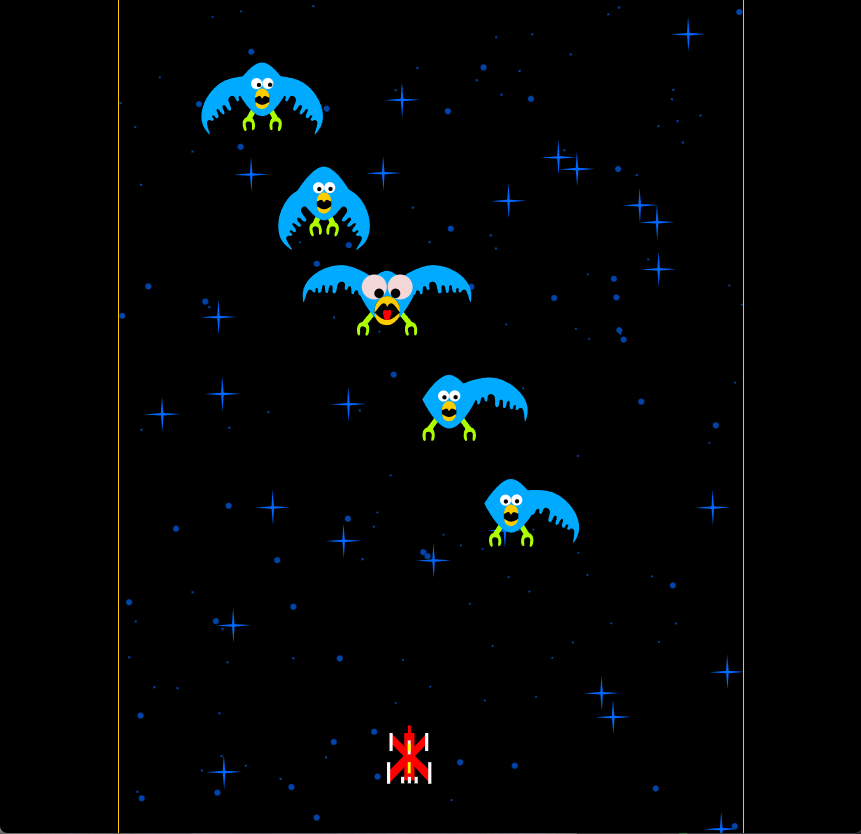
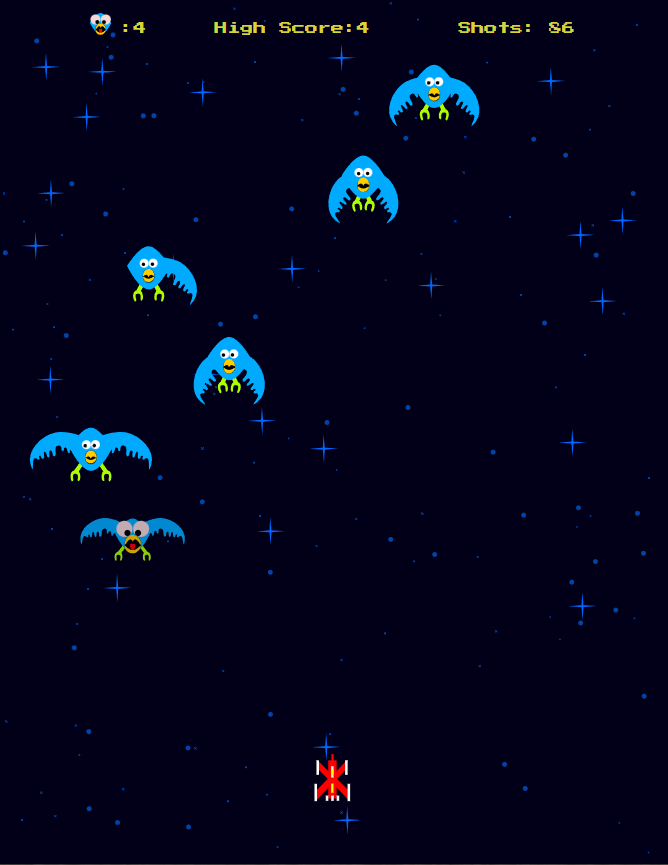
Got a high score system implemented

diff --git a/src/components/Canvas.jsx b/src/components/Canvas.jsx
@@ -7,6 +7,7 @@ import Ship from './Ship';
 import ShipBullet from './ShipBullet';
 import Bird from './Bird';
 import CurrentScore from './CurrentScore';
+import HighScore from './HighScore';
 import ShotsRemaining from './ShotsRemaining';
 import Title from './Title';
 import StartGame from './StartGame';
@@ -28,7 +29,9 @@ const Canvas = props => {
             
         >   
             <ScrollingBackground />
+            <HighScore highScore={props.gameState.highScore} />
             <CurrentScore score={props.gameState.score} />
+            
             <ShotsRemaining shotsRemaining={props.gameState.shotsRemaining} />
             { props.gameState.shipFire.map(bullet => (
                 <ShipBullet
@@ -77,6 +80,7 @@ Canvas.propTypes = {
         shotsRemaining: PropTypes.number.isRequired,
         startTime: PropTypes.number.isRequired,
         score: PropTypes.number.isRequired,
+        highScore: PropTypes.number.isRequired,
         shipPosition: PropTypes.shape({
             x: PropTypes.number.isRequired,
             y: PropTypes.number.isRequired,

diff --git a/src/reducers/index.js b/src/reducers/index.js
@@ -3,7 +3,7 @@ import moveObjects from './moveObjects';
 import moveShip from './moveShip';
 import shoot from './shoot';
 import startGame from './startGame';
-import { numBirds, birdVertSpacing, startShotCount } from '../utils/constants';
+import { numBirds, birdVertSpacing, startShotCount, HIGH_SCORE_KEY } from '../utils/constants';
 import { calculateCanvas } from '../utils/canvasFunctions';
 
 const canvasSize = calculateCanvas();
@@ -31,11 +31,18 @@ for (let i = 1, j = numBirds; i <= j; i++) {
     birdYPos += canvasSize.y * birdVertSpacing;
 }
 
+//Initialize high score.
+if (localStorage.getItem(HIGH_SCORE_KEY) === null) {
+    localStorage.setItem(HIGH_SCORE_KEY, "0");
+}
+const highScore = Number(localStorage.getItem(HIGH_SCORE_KEY));
+
 const initialGameState = {
     started: false,
     shotsRemaining: startShotCount,
     startTime: 0,
     score: 0,
+    highScore: highScore,
     shipPosition: {
         x: canvasSize.x / 2,
         y: canvasSize.y * .88,

diff --git a/src/reducers/moveObjects.js b/src/reducers/moveObjects.js
@@ -12,6 +12,7 @@ const moveObjects = state => {
     const now = (new Date()).getTime();
 
     let { score } = state.gameState;
+    let { highScore } = state.gameState;
 
     // Handle ship moving
     const { shipMoving } = state.gameState;
@@ -67,6 +68,9 @@ const moveObjects = state => {
                 birdChanges.status = 'struck'; //bird hit!
                 //Add to the score!
                 score += 1;
+
+                //Update state highscore
+                highScore = score;
             }
         }
 
@@ -131,6 +135,7 @@ const moveObjects = state => {
         gameState: {
             ...state.gameState,
             score: score,
+            highScore: highScore,
             shipFire: [...bullets],
             shipMoving: shipMoving,
             shipPosition: shipPosition,

diff --git a/src/reducers/shoot.js b/src/reducers/shoot.js
@@ -1,5 +1,5 @@
 import { scaleCoords } from '../utils/canvasFunctions';
-import { bulletLength, shipBarrelLength, activeShotCount } from '../utils/constants';
+import { bulletLength, shipBarrelLength, activeShotCount, HIGH_SCORE_KEY } from '../utils/constants';
 
 const shoot = state => {
     if (state.gameState.started === false) return state;
@@ -23,6 +23,11 @@ const shoot = state => {
     shotsRemaining -= 1;
     if (shotsRemaining === 0) {
         started = false;
+        const highScore = Number(localStorage.getItem(HIGH_SCORE_KEY));
+        const { score } = state.gameState;
+        if (score > highScore) {
+            localStorage.setItem(HIGH_SCORE_KEY, score.toString());
+        }
     }
 
     return {

diff --git a/src/components/HighScore.jsx b/src/components/HighScore.jsx
@@ -1,0 +1,30 @@
+import React from 'react';
+import PropTypes from 'prop-types';
+import { getCanvas, scaleCoords } from '../utils/canvasFunctions';
+
+const HighScore = (props) => {
+    const canvas = getCanvas();
+    
+    const scoreStyle = {
+        fontFamily: '"Press Start 2P", cursive',
+        fontSize: scaleCoords(4),
+        fill: '#d6d33e',
+    };
+
+    const position = {
+        x: canvas.x * .325,
+        y: canvas.y * .015,
+    };
+    
+    return (
+        <text style={scoreStyle} x={position.x} y={canvas.y * .04}>
+            High Score:{props.highScore}
+        </text>
+    );
+};
+
+HighScore.propTypes = {
+    highScore: PropTypes.number.isRequired,
+};
+
+export default HighScore;

diff --git a/src/components/ShotsRemaining.jsx b/src/components/ShotsRemaining.jsx
@@ -5,20 +5,20 @@ import { getCanvas, scaleCoords } from '../utils/canvasFunctions';
 const ShotsRemaining = (props) => {
     const canvas = getCanvas();
     
-    const scoreStyle = {
+    const style = {
         fontFamily: '"Press Start 2P", cursive',
         fontSize: scaleCoords(4),
         fill: '#d6d33e',
     };
 
     const position = {
-        x: canvas.x * .60,
+        x: canvas.x * .70,
         y: canvas.y * .04,
     };
     
     return (
         <g>
-            <text style={scoreStyle} x={position.x} y={position.y}>
+            <text style={style} x={position.x} y={position.y}>
                 Shots: {Math.max(0, props.shotsRemaining)}
             </text>
         </g>

diff --git a/src/App.js b/src/App.js
@@ -97,6 +97,7 @@ App.propTypes = {
     shotsRemaining: PropTypes.number.isRequired,
     startTime: PropTypes.number.isRequired,
     score: PropTypes.number.isRequired,
+    highScore: PropTypes.number.isRequired,
     shipPosition: PropTypes.shape({
       x: PropTypes.number.isRequired,
       y: PropTypes.number.isRequired,

diff --git a/src/utils/constants.js b/src/utils/constants.js
@@ -1,3 +1,6 @@
+// key used to access high-score value from localstorage
+export const HIGH_SCORE_KEY = "high-score";
+
 // Main game canvas related stuff
 export const updateInterval = 10; //Frequency (in ms) for setInterval in moveObjects (used in App.js)
 export const widthHeightRatio = .753; //Width to height aspect ratio

diff --git a/src/components/CurrentScore.jsx b/src/components/CurrentScore.jsx
@@ -17,7 +17,7 @@ const CurrentScore = (props) => {
     };
 
     const position = {
-        x: canvas.x * .2,
+        x: canvas.x * .15,
         y: canvas.y * .015,
     };
 

diff --git a/README.md b/README.md
@@ -23,5 +23,4 @@ I learned quite a bit about getting into some components that were somewhat self
 
 ## ToDo's 
 This game is fully functional!  There is still some work remaining that will be completed soon:
-* High Score from localStorage
 * Unit tests
